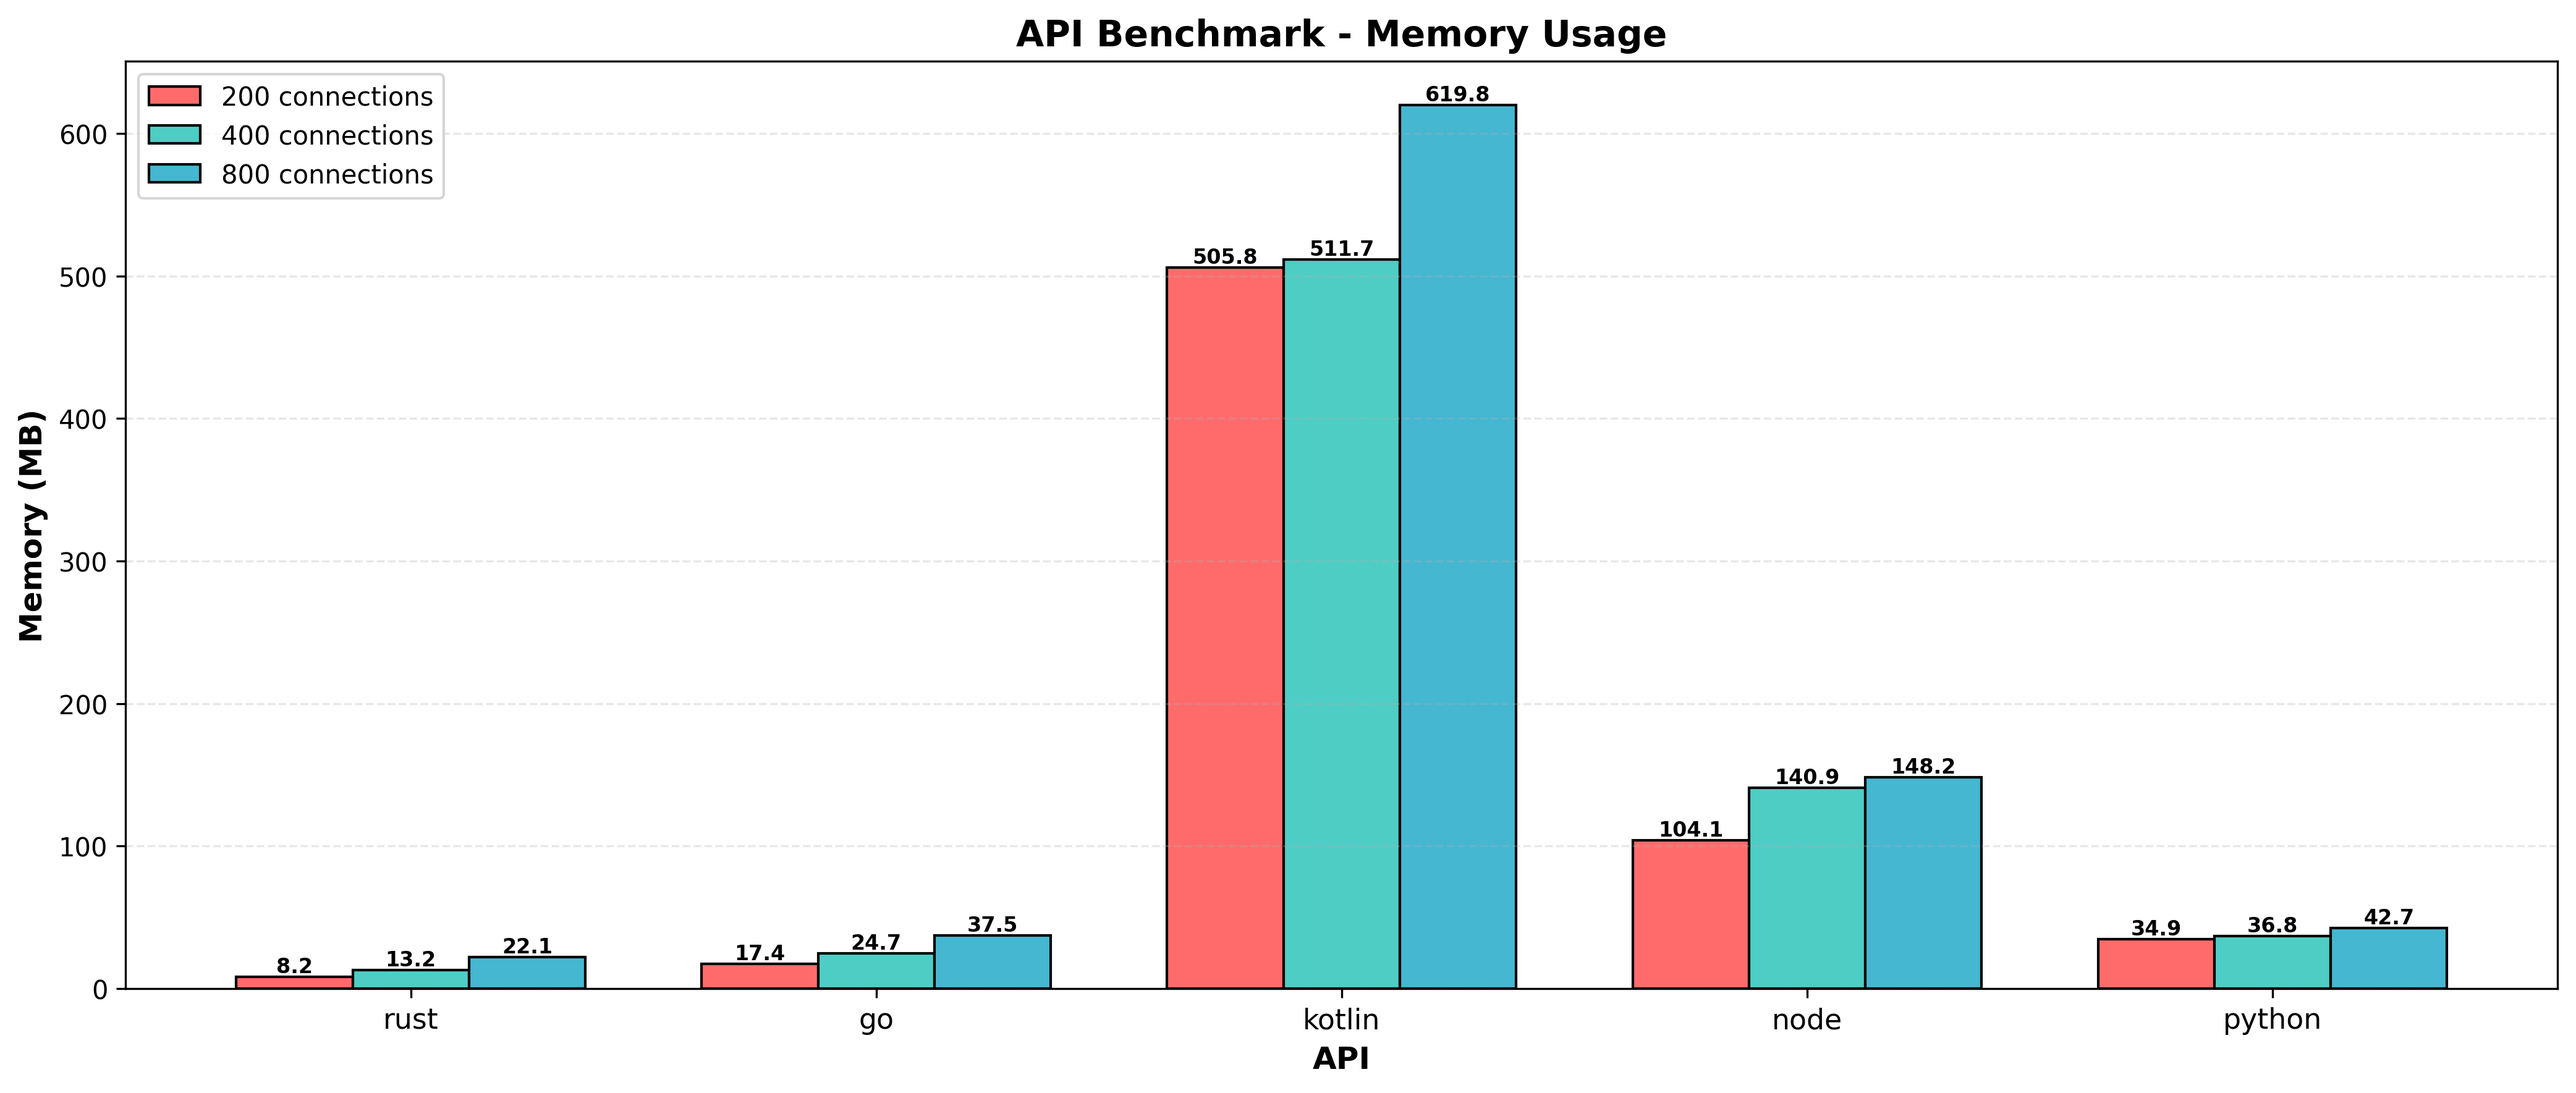
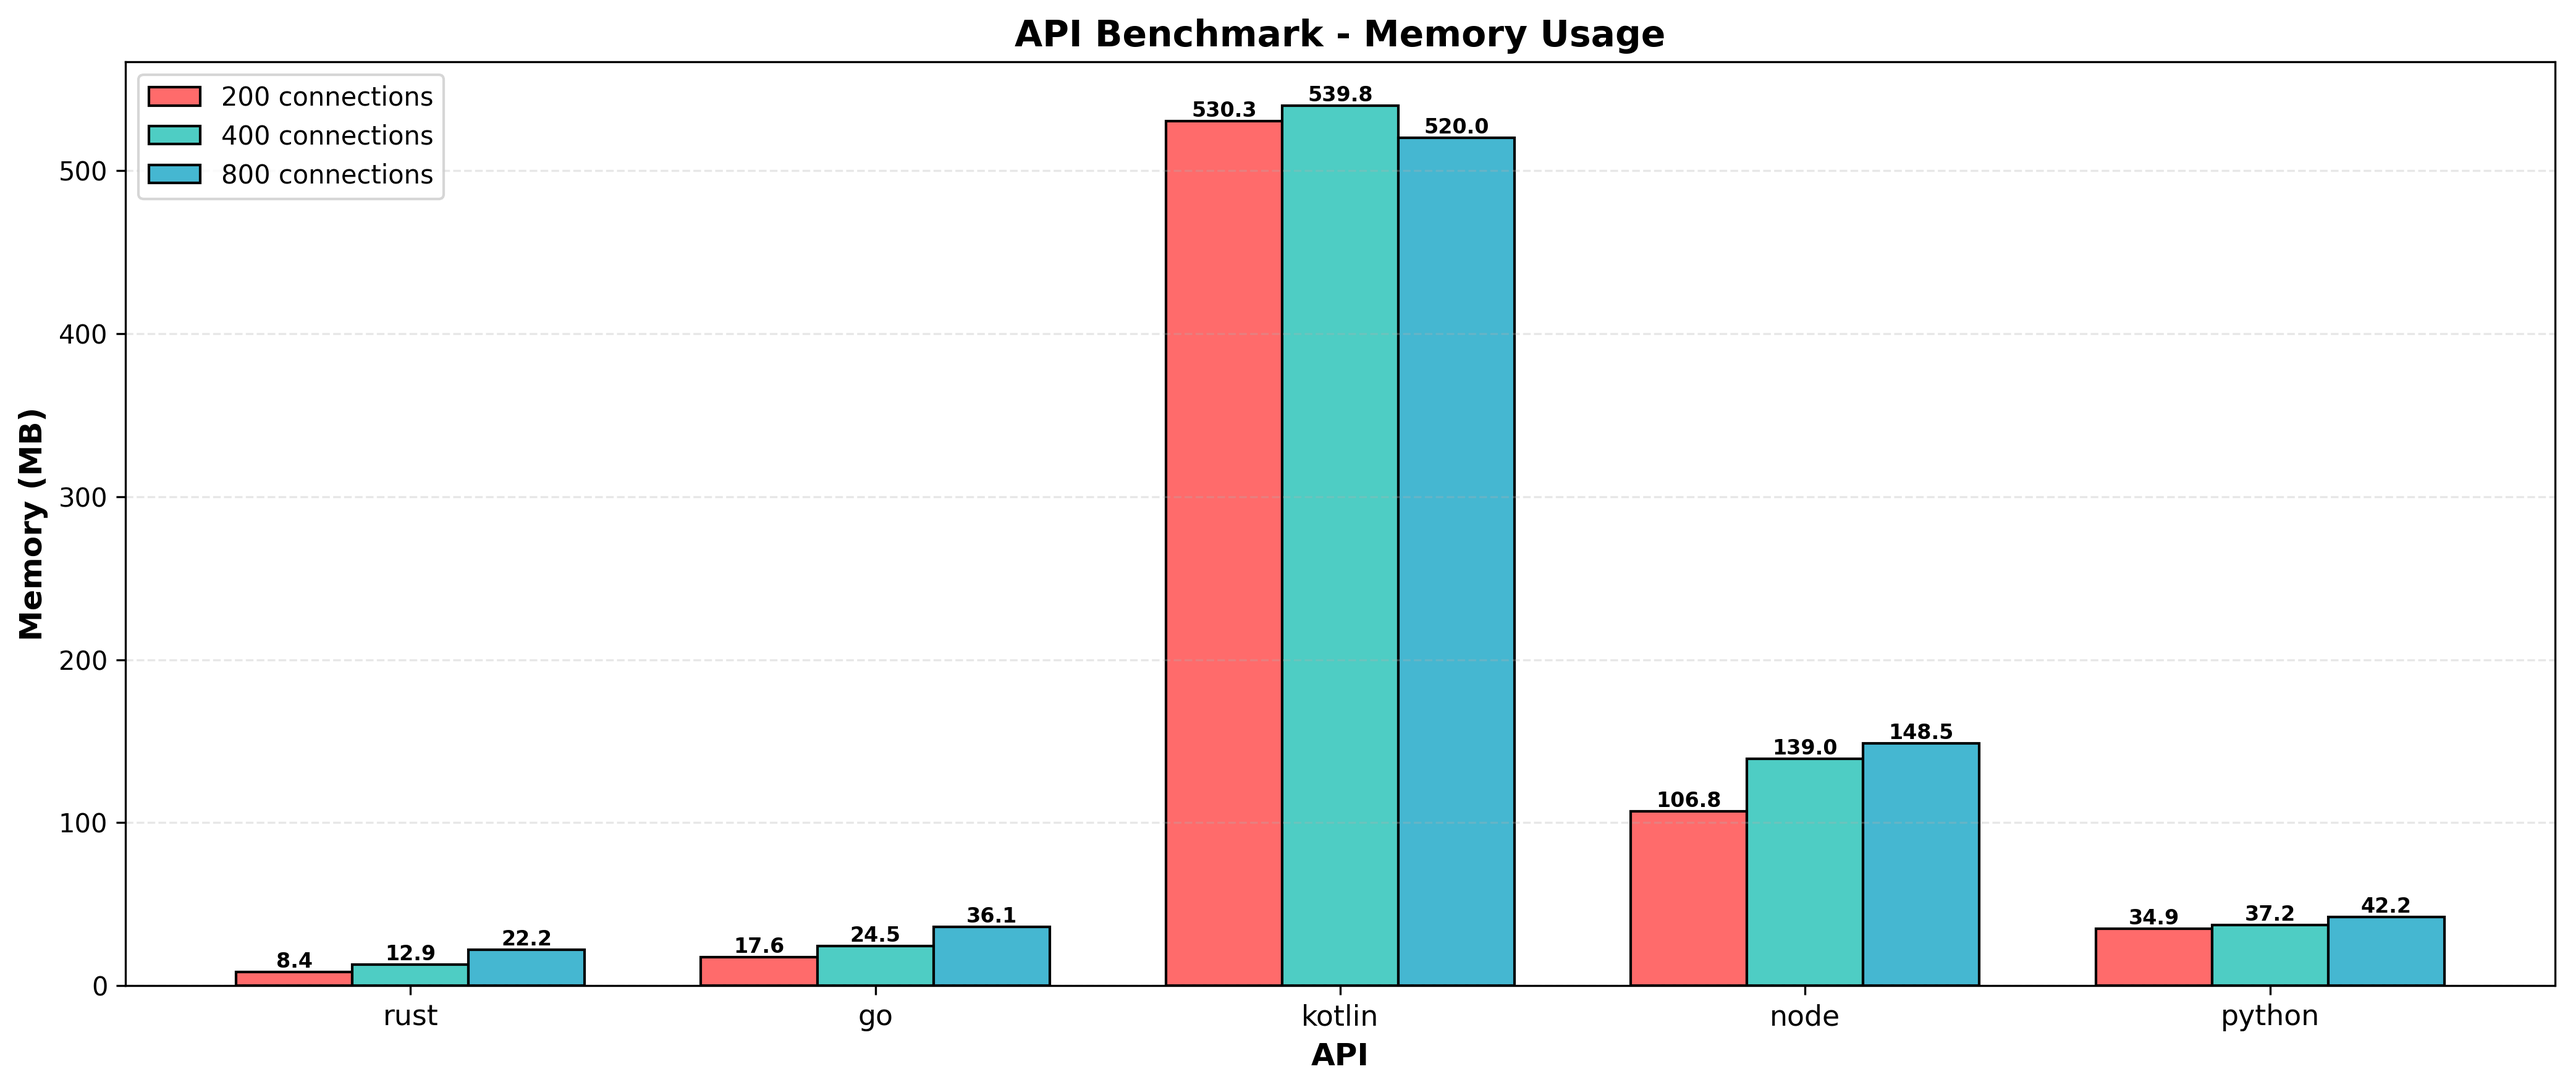
results from github actions autocommit

diff --git a/results/raw.md b/results/raw.md
@@ -1,6 +1,6 @@
 # Results
 ## Timestamp
-Tue Dec 30 12:03:44 UTC 2025
+Tue Dec 30 17:44:11 UTC 2025
 ## Hardware Info
 | CPU Model | Num CPUs | Memory |
 | --------- | -------- | ------ |
@@ -9,18 +9,18 @@ Tue Dec 30 12:03:44 UTC 2025
 ## Benchmarks of 1 Million Requests
 | Test Name | HTTP Conns | Success Rate | Test Seconds | Requests per Second | P50 Millis | P99 Millis | P99.9 Millis | API Memory MB | API CPU Time | API Threads |
 | --------- | ---------- | ------------ | ------------ | ------------------- | ---------- | ---------- | ------------ | ------------- | ------------ | ----------- |
-| rust | 200 | 100.0% | 8.8 | 112477.6 | 1.6398 | 4.5045 | 6.2146 | 8.2 | 00:00:17 | 5 |
-| rust | 400 | 100.0% | 8.9 | 112340.5 | 3.3418 | 8.0638 | 11.5498 | 13.2 | 00:00:17 | 5 |
-| rust | 800 | 100.0% | 9.5 | 105678.5 | 7.4259 | 11.8842 | 17.8454 | 22.1 | 00:00:18 | 5 |
-| go | 200 | 100.0% | 12.5 | 79963.5 | 1.9048 | 8.4374 | 11.7145 | 17.4 | 00:00:29 | 12 |
-| go | 400 | 100.0% | 11.8 | 84142.3 | 3.9834 | 14.9903 | 20.9702 | 24.7 | 00:00:28 | 11 |
-| go | 800 | 100.0% | 12.1 | 82792.6 | 8.5366 | 29.4611 | 43.2097 | 37.5 | 00:00:28 | 11 |
-| kotlin | 200 | 100.0% | 14.4 | 69370.2 | 1.9520 | 12.0787 | 33.1784 | 505.8 | 00:00:39 | 30 |
-| kotlin | 400 | 100.0% | 14.8 | 67364.1 | 4.8162 | 22.7745 | 60.1837 | 511.7 | 00:00:40 | 30 |
-| kotlin | 800 | 100.0% | 16.0 | 62229.0 | 10.4576 | 41.4073 | 122.8965 | 619.8 | 00:00:44 | 31 |
-| node | 200 | 100.0% | 36.1 | 27683.4 | 6.1744 | 10.1465 | 11.7215 | 104.1 | 00:00:36 | 7 |
-| node | 400 | 100.0% | 37.3 | 26775.8 | 12.9536 | 21.0083 | 27.0061 | 140.9 | 00:00:37 | 7 |
-| node | 800 | 100.0% | 38.2 | 26189.5 | 26.8562 | 43.2382 | 52.1972 | 148.2 | 00:00:38 | 7 |
-| python | 200 | 100.0% | 251.0 | 6681.9 | 49.7630 | 57.3744 | 62.3194 | 34.9 | 00:04:11 | 1 |
-| python | 400 | 100.0% | 243.4 | 6943.9 | 96.3798 | 110.0935 | 114.8598 | 36.8 | 00:04:03 | 1 |
-| python | 800 | 100.0% | 254.7 | 7223.7 | 202.2554 | 229.3038 | 247.4690 | 42.7 | 00:04:14 | 1 |
+| rust | 200 | 100.0% | 8.6 | 114964.9 | 1.6171 | 4.3610 | 5.7934 | 8.4 | 00:00:16 | 5 |
+| rust | 400 | 100.0% | 8.5 | 116993.5 | 3.2244 | 7.0022 | 9.3963 | 12.9 | 00:00:16 | 5 |
+| rust | 800 | 100.0% | 8.7 | 114682.5 | 6.8228 | 11.3192 | 17.4529 | 22.2 | 00:00:17 | 5 |
+| go | 200 | 100.0% | 11.8 | 84216.3 | 1.8625 | 7.5303 | 10.4230 | 17.6 | 00:00:28 | 10 |
+| go | 400 | 100.0% | 11.4 | 87685.6 | 3.8662 | 13.5647 | 18.7808 | 24.5 | 00:00:27 | 10 |
+| go | 800 | 100.0% | 11.5 | 87129.8 | 8.1666 | 26.0062 | 38.4672 | 36.1 | 00:00:27 | 13 |
+| kotlin | 200 | 100.0% | 15.3 | 65192.4 | 2.1691 | 12.2524 | 27.5949 | 530.3 | 00:00:43 | 30 |
+| kotlin | 400 | 100.0% | 15.5 | 64202.3 | 5.2635 | 23.0040 | 57.9711 | 539.8 | 00:00:44 | 30 |
+| kotlin | 800 | 100.0% | 14.6 | 68224.2 | 9.4507 | 43.7666 | 108.4879 | 520.0 | 00:00:40 | 30 |
+| node | 200 | 100.0% | 35.1 | 28409.8 | 5.9497 | 9.5735 | 10.7428 | 106.8 | 00:00:35 | 7 |
+| node | 400 | 100.0% | 33.9 | 29451.9 | 11.9724 | 18.9493 | 21.4948 | 139.0 | 00:00:34 | 7 |
+| node | 800 | 100.0% | 35.1 | 28486.8 | 24.1616 | 40.1390 | 42.9496 | 148.5 | 00:00:35 | 7 |
+| python | 200 | 100.0% | 239.7 | 6515.3 | 47.1706 | 54.4636 | 55.1768 | 34.9 | 00:03:59 | 1 |
+| python | 400 | 100.0% | 233.8 | 7111.5 | 92.4356 | 105.0180 | 108.4462 | 37.2 | 00:03:53 | 1 |
+| python | 800 | 100.0% | 235.8 | 7800.4 | 187.6123 | 207.8532 | 216.7147 | 42.2 | 00:03:55 | 1 |
